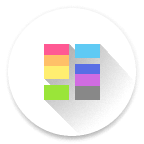
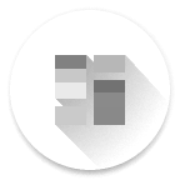
grayscale images

Changed region(s): [[0.3056, 0.3056, 0.6944, 0.6944]]

diff --git a/frontpage/index.html b/frontpage/index.html
@@ -84,86 +84,3 @@
         <!--END WRAPPER-->
     </body>
 </html>
-<!--<!DOCTYPE html>
-<html>
-    <head>
-        <title>Front Page | Feel to Touch</title>
-        <link rel="shortcut icon" href="/img/ic_main.ico"/>
-
-        <meta name="viewport" content="width=device-width, initial-scale=1">
-
-        <link href='https://fonts.googleapis.com/css?family=Oswald' rel='stylesheet' type='text/css'>
-        <link rel="stylesheet" type="text/css" href="/CSS/mainstyle.css"/>
-        <link rel="stylesheet" type="text/css" href="/CSS/dashboard_style.css"/>
-        <link rel="stylesheet" type="text/css" href="/CSS/frontstyle.css"/>
-        <meta charset="utf-8">
-    </head>
-    
-    <body>
-        <div id="wrapper">
-
-            <header>
-                <div class="menulink timeline-button">
-                    <a href="/frontpage/">
-                        <h5>FRONT PAGE</h5>
-                    </a>
-                </div>
-
-                <div class="menulink blog-button">
-                    <a href="http://feeltotouch.tumblr.com/">
-                        <h5>JOURNAL</h5>
-                    </a>
-                </div>
-                
-                <div class="title-link"><a href="/">JOONHO HAN</a></div>
-
-                <div class="contacts">
-                    <h4 class="phone">Boston, MA 858-880-6106</h4>
-                    <ul class="quick_links">
-                        <li><a href="https://github.com/joonho365han"><img src="/img/social_media/ic_github.png" width="24" height="24"></a></li>
-                        <li><a href="https://www.linkedin.com/in/joonho-han-924733b1"><img src="/img/social_media/ic_linkedin.png" width="24" height="24"></a></li>
-                        <li><a href="mailto:joonhohan365@gmail.com"><img src="/img/social_media/ic_mail.png" width="24" height="24"></a></li>
-                        <li class="quick_link_item tumblr"><a href="http://joonho-han.tumblr.com/"><img src="/img/social_media/ic_tumblr.png" width="30" height="30"></a></li>
-                    </ul>
-                    <h4 class="since">Since 1995</h4>
-                </div>
-            </header>
-            
-            <h1 class="title">"DO DILIGENCE"</h1>
-            
-            <div class="intro">
-                <h3>Here's a story.</h3>
-                <h4>I thought Do Diligence was an American idiom. I remember hearing something that sounded similar and thought it spelled 'Do Diligence.' I was raised in Korea, a goal-oriented society, but my parents made sure I valued the process as much as the result. So when I heard this 'idiom,' I thought, "It must mean to be diligent until the very end. Wow. Persistence must be a universal trait. I should stick to it." Ironically, the phrase I actually heard was "Due Diligence," which means something completely different. But, thanks to this coincidence, I grew up believing that a lot can be achieved when you just persist through.</h4>
-            </div>
-
-            <div class="article_anchors">
-                <a href="/seltra">
-                    <div class="project_backgrounds seltra"></div>
-                    <h3>Seltra</h3>
-                </a>
-                <a href="/ink">
-                    <div class="project_backgrounds ink"></div>
-                    <h3>Ink</h3>
-                </a>
-                <a href="/listen">
-                    <div class="project_backgrounds listen"></div>
-                    <h3>Listen</h3>
-                </a>
-                <a href="/monolith">
-                    <div class="project_backgrounds monolith"></div>
-                    <h3>Monolith</h3>
-                </a>
-            </div>
-            
-            <footer>
-                <h6>Design by Joonho Han</h6>
-            </footer>
-
-        </div>
-        
-        <script src="https://ajax.googleapis.com/ajax/libs/jquery/2.2.2/jquery.min.js"></script>
-        <link rel="stylesheet" href="https://ajax.googleapis.com/ajax/libs/jqueryui/1.11.4/themes/smoothness/jquery-ui.css">
-        <script src="https://ajax.googleapis.com/ajax/libs/jqueryui/1.11.4/jquery-ui.min.js"></script>
-    
-    </body>
-</html>-->

diff --git a/cheshfwh49p3fq/timelineStyle.css b/cheshfwh49p3fq/timelineStyle.css
@@ -9,8 +9,8 @@
 }
 
 #wrapper{
-    max-width: 660px;
-    padding: 0 15px; /* So when the window shrinks beyond max width, contents don't touch the sides. */
+    max-width: 660px; /* Wrapper is narrow just for home page */
+    padding: 0 15px; /* This is so contents don't touch the sides when the window shrinks. */
 }
 
 /* The title. */
@@ -20,7 +20,7 @@ header > h1 {
     color: #444;
 }
 
-/* START Social Media Icons */
+/* Social Media Icons */
 .quick_link_list{
     width: 230px;
     height: 36px;
@@ -28,29 +28,12 @@ header > h1 {
 .quick_link_list > li {
     width: 25%;
 }
-/* END Social Media Icons */
 
-/* Self Intro paragraph */
-.intro > h4 { /* The "intro" class is important because the text-align for just this paragraph is center. */
-    text-align: center;
-}
-/* END Self Intro paragraph */
+/* The "intro" class is important because the text-align for just this paragraph is center. */
+.intro > h4 { text-align: center; }
 
 /* Project links */
-.article_anchor{
-    width: 100%;
-    border-radius: 5px; /* This is so the click radius is trimmed */
-}
-.article_anchor h2 {
-    color: white;
-    line-height: 100px;
-}
-.article_anchor:hover h2 {
-    opacity: 0;
-    animation-name: fade_out;
-    -webkit-animation-name: fade_out;
-    animation-duration: 0.3s;
-}
+/* Somehow setting background on anchor doesn't work. So I have to set background on divs. */
 .seltra_link_background{ background: url("/ihmaegie349pr/timeline/seltra.png"); }
 .monolith_link_background{ background: url("/ihmaegie349pr/timeline/monolith.png"); }
 .x_link_background{ background: url("/ihmaegie349pr/timeline/x.png"); }
@@ -65,4 +48,17 @@ header > h1 {
     -webkit-background-size: cover;
     -webkit-background-position: center;
 }
-/* END Project links */
+.article_anchor{
+    width: 100%;
+    border-radius: 5px; /* This is so the click radius is trimmed */
+}
+.article_anchor h2 {
+    color: white;
+    line-height: 100px;
+}
+.article_anchor:hover h2 {
+    opacity: 0;
+    animation-name: fade_out;
+    -webkit-animation-name: fade_out;
+    animation-duration: 0.3s;
+}
